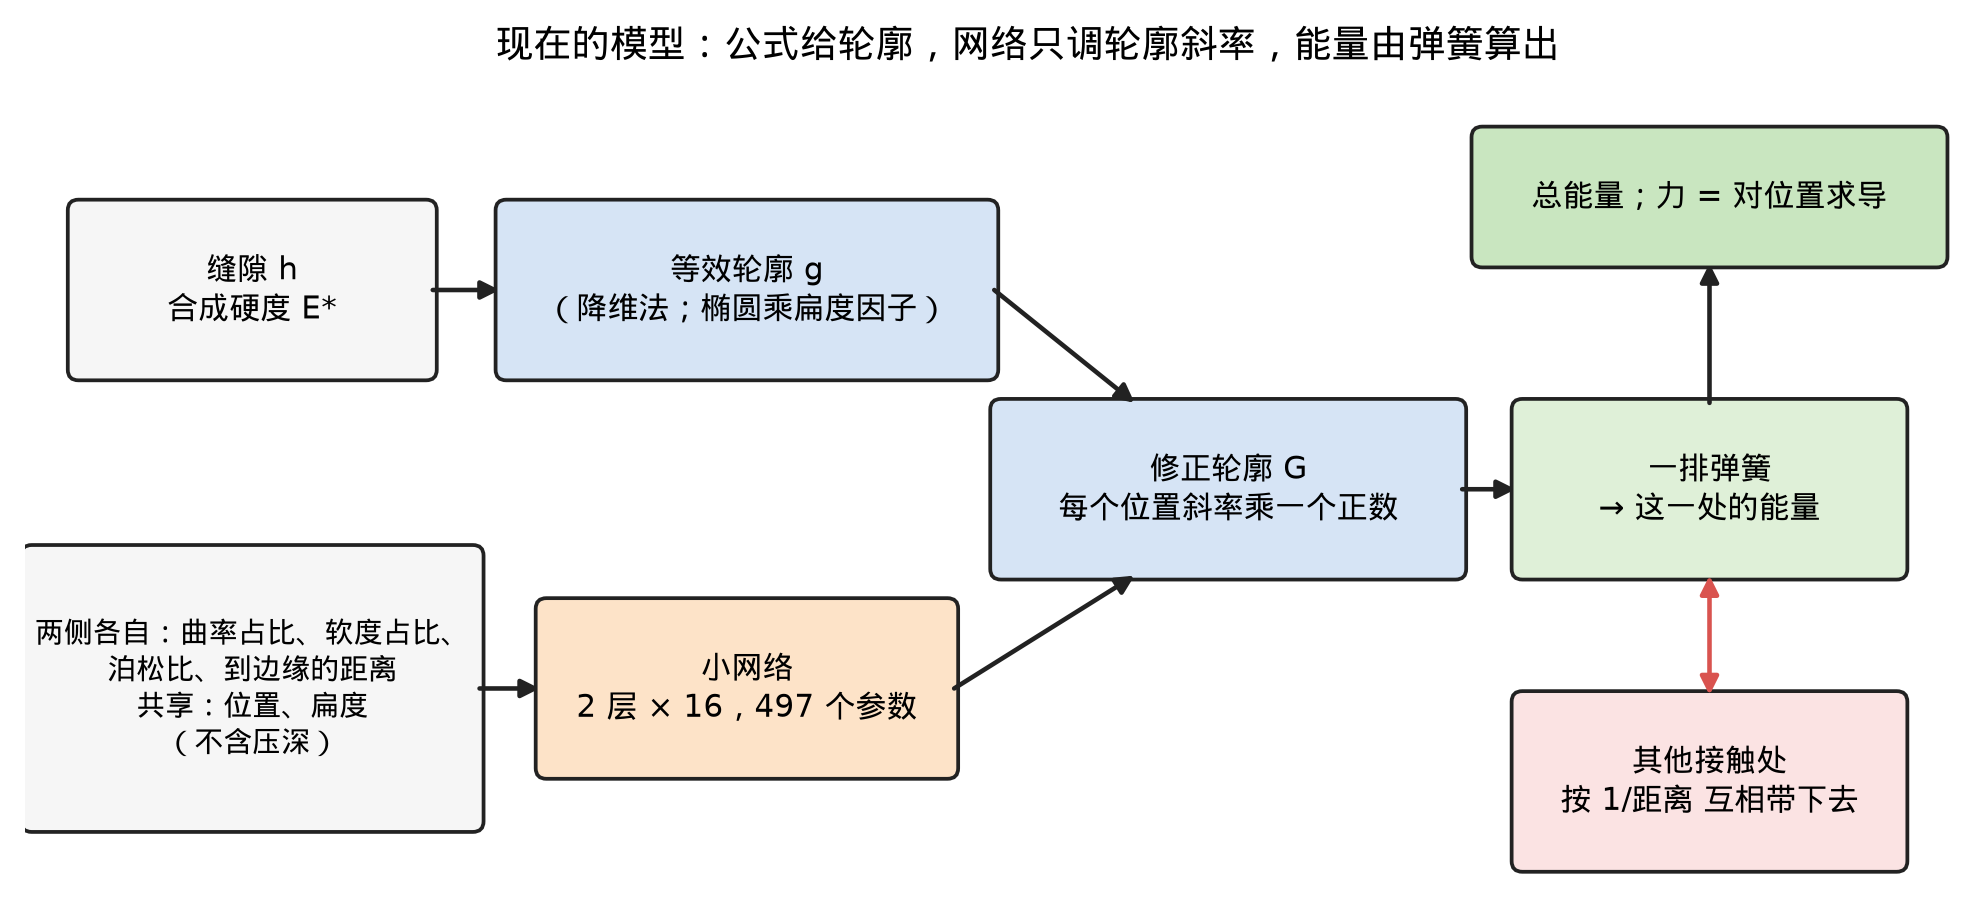
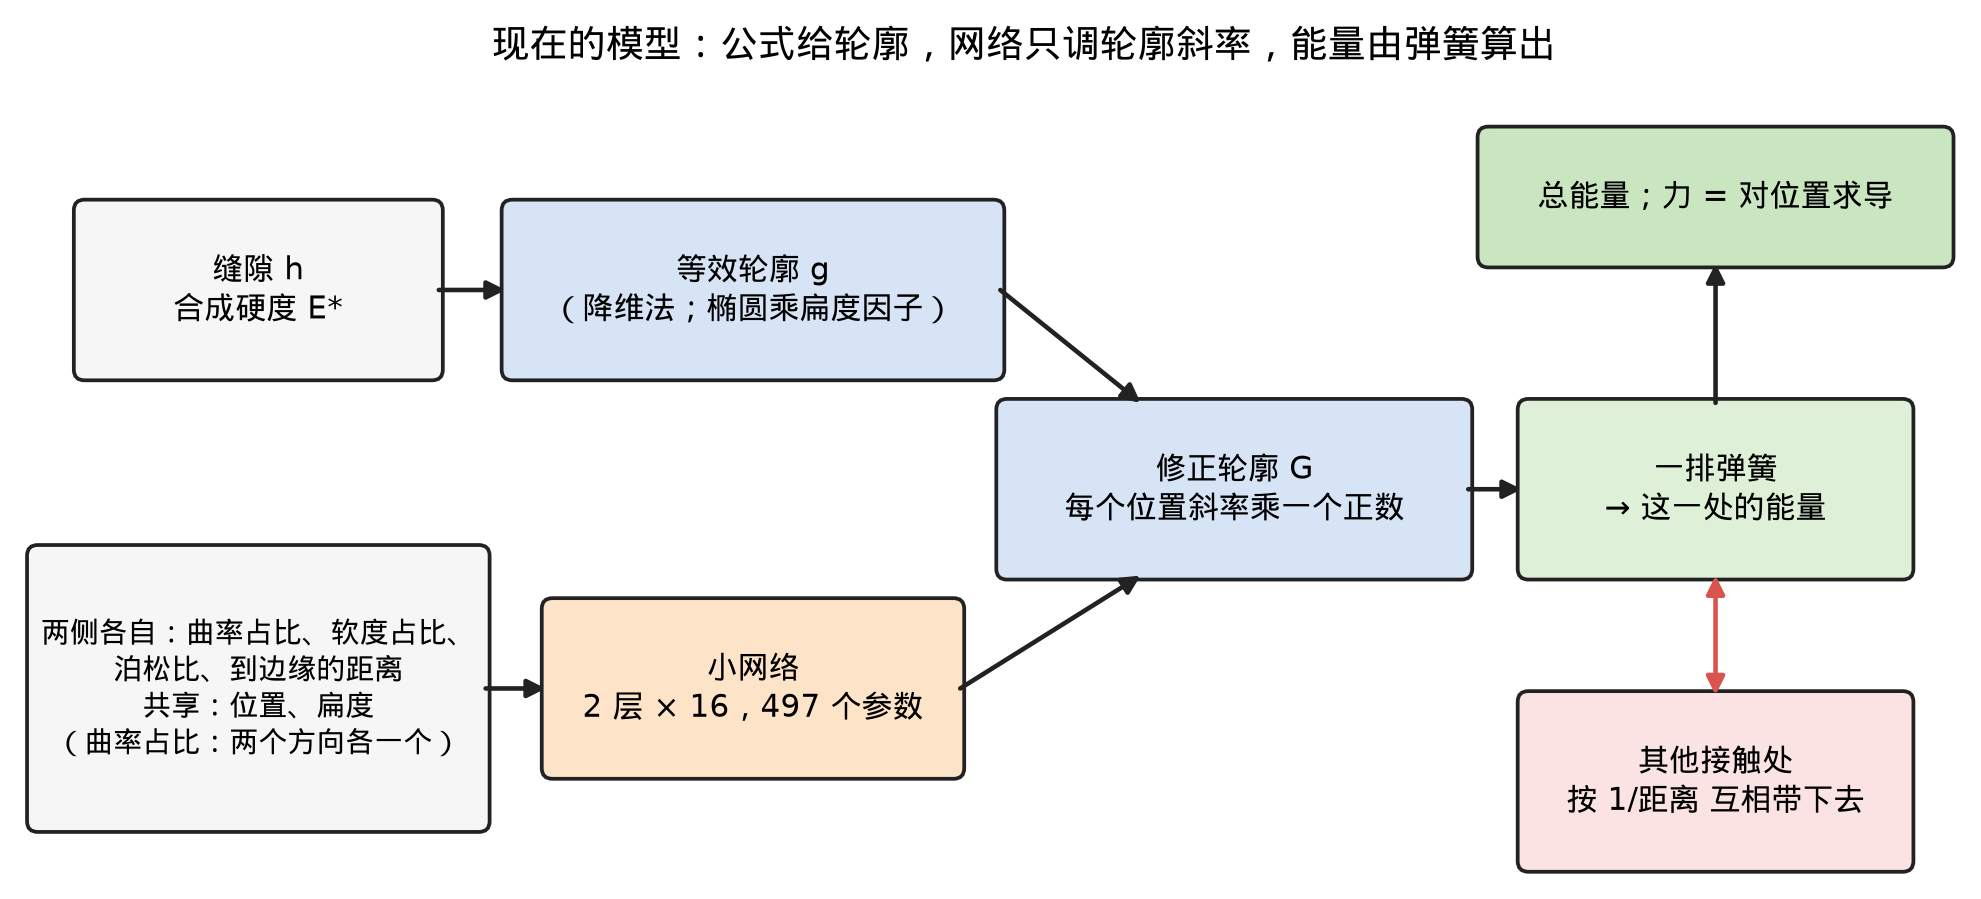
preview/meeting: network-input example (meeting_17/18 + table) after the model diagram; arch caption, input list and design reason state only what the network takes; current annotation layer and the figures now live (meeting_09 V3, redrawn fig02/fig04/meeting_02/meeting_11); built from sandbox 24833

diff --git a/preview/meeting/week3_4.html b/preview/meeting/week3_4.html
@@ -241,7 +241,7 @@ html.annot-on #annot-capture { display: block; }
 }
 </style>
 <script>window.NIPC_SNAPSHOT = {"format":"nipc-notes","version":1,"page":"week3_4.html","path":"/Neural-IPC-web/week3_4.html","colWidth":920,"strokes":[],"tombstones":{}};</script>
-<script>window.NIPC_PAGE = "e5ca66c82fb4";</script>
+<script>window.NIPC_PAGE = "3717cbbdcc77";</script>
 <script>window.MathJax = {tex: {inlineMath: [["\\(", "\\)"]], displayMath: [["\\[", "\\]"]]}, svg: {fontCache: "global"}};</script>
 <script src="https://cdn.jsdelivr.net/npm/mathjax@3.2.2/es5/tex-svg.js" async></script>
 <a class="skip" href="#content">跳转到正文</a><div id="progress" aria-hidden="true"></div>
@@ -500,18 +500,84 @@ html.annot-on #annot-capture { display: block; }
 </table></div>
 <figure style="margin:12px 0"><img src="assets/images/w34_meeting_12_soft_vs_rigid_cap.png" width="2294" height="885" style="width:1089px;max-width:100%;height:auto" alt="两幅都是过接触中心的剖面，红线是受接触力的地方。左边压头（灰）几乎刚、块（浅蓝）软：凹下去的是块，压头底部仍是圆弧。右边压头（浅橙）软、块（深蓝）硬：压头底部被压平，块几乎不动。" loading="lazy"><figcaption class="small">两幅都是过接触中心的剖面，红线是受接触力的地方。左边压头（灰）几乎刚、块（浅蓝）软：凹下去的是块，压头底部仍是圆弧。右边压头（浅橙）软、块（深蓝）硬：压头底部被压平，块几乎不动。</figcaption></figure>
 <p>压头一软，被压扁的变成本来就弯的那一侧，公式的「变形小」前提就不太成立，偏了 1%–2%。而合成硬度相同时，软的是弯的一侧还是平的一侧，结果不一样，所以网络要分别知道两侧各自的软硬和弯曲。</p>
-<figure style="margin:12px 0"><img src="assets/images/w34_meeting_09_arch_v1.png" width="1975" height="899" style="width:923px;max-width:100%;height:auto" alt="现在的模型怎么算能量。左上，缝隙 \(h\) 和合成硬度 \(E^*\) 经降维法给出等效轮廓 \(g\)，椭圆时乘扁度因子。左下，两侧各自的曲率占比、软度占比、泊松比、到边缘的距离，加上位置和扁度，送进小网络，不含压深。网络给轮廓每个位置的斜率乘一个正数，得到修正轮廓 \(G\)，压一排弹簧得到这一处的能量。右下的红色双箭头表示几处接触之间按 1/距离 互相把表面带下去；几处加起来是总能量，力是总能量对位置的导数。" loading="lazy"><figcaption class="small">现在的模型怎么算能量。左上，缝隙 \(h\) 和合成硬度 \(E^*\) 经降维法给出等效轮廓 \(g\)，椭圆时乘扁度因子。左下，两侧各自的曲率占比、软度占比、泊松比、到边缘的距离，加上位置和扁度，送进小网络，不含压深。网络给轮廓每个位置的斜率乘一个正数，得到修正轮廓 \(G\)，压一排弹簧得到这一处的能量。右下的红色双箭头表示几处接触之间按 1/距离 互相把表面带下去；几处加起来是总能量，力是总能量对位置的导数。</figcaption></figure>
+<figure style="margin:12px 0"><img src="assets/images/w34_meeting_09_arch_v1.png" width="1981" height="899" style="width:925px;max-width:100%;height:auto" alt="现在的模型怎么算能量。左上，缝隙 \(h\) 和合成硬度 \(E^*\) 经降维法给出等效轮廓 \(g\)，椭圆时乘扁度因子。左下，两侧各自的曲率占比、软度占比、泊松比、到边缘的距离，加上位置和扁度，送进小网络。网络给轮廓每个位置的斜率乘一个正数，得到修正轮廓 \(G\)，压一排弹簧得到这一处的能量。右下的红色双箭头表示几处接触之间按 1/距离 互相把表面带下去；几处加起来是总能量，力是总能量对位置的导数。" loading="lazy"><figcaption class="small">现在的模型怎么算能量。左上，缝隙 \(h\) 和合成硬度 \(E^*\) 经降维法给出等效轮廓 \(g\)，椭圆时乘扁度因子。左下，两侧各自的曲率占比、软度占比、泊松比、到边缘的距离，加上位置和扁度，送进小网络。网络给轮廓每个位置的斜率乘一个正数，得到修正轮廓 \(G\)，压一排弹簧得到这一处的能量。右下的红色双箭头表示几处接触之间按 1/距离 互相把表面带下去；几处加起来是总能量，力是总能量对位置的导数。</figcaption></figure>
+<p><strong>举个例子：软压头压硬一些的块。</strong> 下面是训练数据里真实的一行，看网络每个输入具体取什么值。</p>
+<figure style="margin:12px 0"><img src="assets/images/w34_meeting_17_input_example.png" width="1898" height="881" style="width:905px;max-width:100%;height:auto" alt="左边是过接触中心的剖面，按真实比例画。上面浅橙色是软压头，底面是半径 \(R=1\) 的球面：红箭头从球心指到球面，灰色虚线是这个球面的延长；球面只到离中轴 \(l=0.6\) 的地方，再往外压头底面是平的。下面浅蓝色是硬一些的块，看成无限大。两侧各自标了杨氏模量 \(E\)、泊松比 \(\nu\) 和软度占比 \(\sigma\)，红色短线是接触区。右边把接触区横向放大（竖直方向是示意）：位置 \(t\) 从中心 0 量到接触边缘 \(a=0.111\)，网络在这条线上的每个位置各算一次，图上标出下表用到的 \(t=0\)、\(a/2\)、\(a\) 三处。" loading="lazy"><figcaption class="small">左边是过接触中心的剖面，按真实比例画。上面浅橙色是软压头，底面是半径 \(R=1\) 的球面：红箭头从球心指到球面，灰色虚线是这个球面的延长；球面只到离中轴 \(l=0.6\) 的地方，再往外压头底面是平的。下面浅蓝色是硬一些的块，看成无限大。两侧各自标了杨氏模量 \(E\)、泊松比 \(\nu\) 和软度占比 \(\sigma\)，红色短线是接触区。右边把接触区横向放大（竖直方向是示意）：位置 \(t\) 从中心 0 量到接触边缘 \(a=0.111\)，网络在这条线上的每个位置各算一次，图上标出下表用到的 \(t=0\)、\(a/2\)、\(a\) 三处。</figcaption></figure>
+<ul>
+<li>压头底面是半径 \(R=1\) 的球冠，球面到离中轴 \(l=0.6\) 处为止；块的上表面是平的，块看成无限大。</li>
+<li>压头 \(E=10^5\)，块 \(E=10^6\)，泊松比都是 0.3。压深 0.013，这时接触半径 \(a=0.111\)。</li>
+<li>网络在接触区里每个位置 \(t\) 各算一次；表里列 \(t=0\)、\(a/2\)、\(a\) 三处的取值，两侧的量写成「压头 / 块」。</li>
+</ul>
+<div class="tablewrap"><table>
+<thead>
+<tr>
+<th>输入</th>
+<th>例子里的值</th>
+<th>是什么</th>
+<th>为什么网络需要它</th>
+</tr>
+</thead>
+<tbody>
+<tr>
+<td>位置 \(10t/R\)</td>
+<td>0 → 0.555 → 1.11</td>
+<td>离接触中心多远，用球半径量</td>
+<td>修正随位置变：中心保持公式原样，越往外改得越多</td>
+</tr>
+<tr>
+<td>扁度 \(e\)</td>
+<td>0</td>
+<td>两侧合起来的缝隙，在两个主方向上弯曲程度之比的对数</td>
+<td>接触区越扁，按等面积圆算的误差越大。球压平面两个方向一样，所以是 0；上一节环面内圈那种情况是 \(\ln 3\approx 1.10\)</td>
+</tr>
+<tr>
+<td>方向 1 曲率占比</td>
+<td>1 / 0</td>
+<td>这个方向上合起来的弯曲，有多大比例来自这一侧</td>
+<td>弯的是哪一侧，结果不一样。块是平的，弯曲全在压头上</td>
+</tr>
+<tr>
+<td>方向 2 曲率占比</td>
+<td>1 / 0</td>
+<td>另一个主方向上的同一个量</td>
+<td>两个方向可以各不相同（比如环面）；这里两个方向一样</td>
+</tr>
+<tr>
+<td>软度占比 \(\sigma\)</td>
+<td>0.909 / 0.091</td>
+<td>合起来的软度 \(1/E^*\) 有多大比例来自这一侧</td>
+<td>软的是哪一侧，结果不一样。压头软 10 倍，占了九成多</td>
+</tr>
+<tr>
+<td>泊松比 \(\nu\)</td>
+<td>0.3 / 0.3</td>
+<td>材料被压时往旁边胀出多少</td>
+<td>决定物体被压扁的方式</td>
+</tr>
+<tr>
+<td>到边缘的距离 \(t/l\)</td>
+<td>0 → 0.093 → 0.185 / 0</td>
+<td>当前位置离这一侧球面的边缘有多近</td>
+<td>离边缘越近，「表面一直往外延伸」这个前提越偏。块看成无限大，这一项是 0</td>
+</tr>
+</tbody>
+</table></div>
+<figure style="margin:12px 0"><img src="assets/images/w34_meeting_18_network_neurons.png" width="1404" height="822" style="width:717px;max-width:100%;height:auto" alt="左边一列是 12 个输入，旁边写着这一行在 \(t=a/2\) 处的取值：前两个是两侧共用的位置和扁度，接着是压头一侧的 5 个，最后是块一侧的 5 个。中间两列各 16 个神经元，每个神经元把上一层的全部输出加权求和、再过一次 tanh，灰线表示相邻两层之间全部相连；最右边是唯一的输出 \(\psi\)。底下蓝字是每两层之间的参数个数（权重加偏置），一共 497 个。右上框：把压头和块的两组输入对调再算一遍，两次取平均。右下框：轮廓斜率乘的是 \(e^{\psi(t)-\psi(0)}\)，所以中心处恰好是 1；这一行在 \(a/2\) 处乘数是 1.043。" loading="lazy"><figcaption class="small">左边一列是 12 个输入，旁边写着这一行在 \(t=a/2\) 处的取值：前两个是两侧共用的位置和扁度，接着是压头一侧的 5 个，最后是块一侧的 5 个。中间两列各 16 个神经元，每个神经元把上一层的全部输出加权求和、再过一次 tanh，灰线表示相邻两层之间全部相连；最右边是唯一的输出 \(\psi\)。底下蓝字是每两层之间的参数个数（权重加偏置），一共 497 个。右上框：把压头和块的两组输入对调再算一遍，两次取平均。右下框：轮廓斜率乘的是 \(e^{\psi(t)-\psi(0)}\)，所以中心处恰好是 1；这一行在 \(a/2\) 处乘数是 1.043。</figcaption></figure>
+<ul>
+<li>两组输入对调再算一遍取平均，所以哪一侧叫「压头」、哪一侧叫「块」，结果都一样。</li>
+<li>这一行里斜率乘数从中心的 1，到 \(a/2\) 处 1.043，再到边缘 1.078：外圈调陡了，正是下面说的「压头软时外圈调陡、能量降下来」。</li>
+</ul>
 <p><strong>网络的做法：</strong> 在等效轮廓 \(g\) 的每个位置上，给它的斜率乘一个接近 1 的正数。比如压头软、自己会被压扁，网络就把轮廓外圈调陡一点，接触区变窄，能量随之降下来。</p>
 <figure style="margin:12px 0"><img src="assets/images/w34_meeting_01_profile_correction.png" width="1113" height="965" style="width:484px;max-width:100%;height:auto" alt="降维法那排弹簧上的两种轮廓。黑色虚线是公式给的 \(g=x^2/R\)，接触边缘在灰色的 \(a\)；灰色实心压头是网络把外圈斜率调大后的轮廓，外圈更陡，同样的压深下接触边缘收到红色的 \(a&#x27;\)。蓝色是被压到的弹簧，灰色是没碰到的；轮廓变陡后被压到的弹簧变少、每根压得更浅，能量变小。修正的幅度为了看清放大画了。" loading="lazy"><figcaption class="small">降维法那排弹簧上的两种轮廓。黑色虚线是公式给的 \(g=x^2/R\)，接触边缘在灰色的 \(a\)；灰色实心压头是网络把外圈斜率调大后的轮廓，外圈更陡，同样的压深下接触边缘收到红色的 \(a&#x27;\)。蓝色是被压到的弹簧，灰色是没碰到的；轮廓变陡后被压到的弹簧变少、每根压得更浅，能量变小。修正的幅度为了看清放大画了。</figcaption></figure>
 <ul>
-<li><strong>输入：</strong> 轮廓上的位置；椭圆有多扁；两侧各自的泊松比；弯的是哪一侧（两侧各占合起来的曲率的比例）；软的是哪一侧（两侧各占合起来的软度 \(1/E^*\) 的比例）；两侧各自到物体边缘的距离（物体看成无限大时这一项为零）。不输入压深。</li>
+<li><strong>输入：</strong> 轮廓上的位置；椭圆有多扁；两侧各自的泊松比；弯的是哪一侧（两侧各占合起来的曲率的比例）；软的是哪一侧（两侧各占合起来的软度 \(1/E^*\) 的比例）；两侧各自到物体边缘的距离（物体看成无限大时这一项为零）。</li>
 <li><strong>规模：</strong> 2 层、每层 16 个神经元，共 497 个参数。</li>
 </ul>
 <p><strong>为什么改轮廓，而不是直接给能量乘系数：</strong></p>
 <ul>
 <li>斜率乘的是正数，轮廓仍单调升高，能量仍由那排弹簧算出来，所以第 3.2 节的两条性质（力是能量的导数、越压越硬）原样保留；</li>
 <li>修正系数为 1 时严格退回公式；</li>
-<li>网络只改轮廓的形状，不看压深；压深变化时能量怎么变，仍由弹簧公式决定。所以压得比训练时更深，网络也不需要去猜，不会出怪结果。</li>
+<li>压深变化时能量怎么变，由弹簧公式决定；网络只调轮廓的形状。所以压得比训练时更深，网络也不需要去猜，不会出怪结果。</li>
 </ul>
 <p><strong>接触之间的相互影响（第二条要求）：</strong> 每处接触的压深 = 自己的力压出来的 + 其他接触的力把表面带下去的：</p>
 <p>\[\color{#c0392b}{\delta_i=\delta_{e,i}(F_i)+\sum_{j\ne i}\frac{F_j}{\pi E^*\,r_{ij}},}\]</p>
@@ -605,7 +671,7 @@ html.annot-on #annot-capture { display: block; }
 
 <p>骨架建立在「接触区远小于物体、物体可以看成无限厚」上。下面三种常见情况都违反这一点：</p>
 <p><strong>① 薄层（软垫、涂层、手指皮肤）。</strong> 骨架里没有层厚这个量。刚球压一层很薄的软层时，层下面就是硬底座，材料没处可让，比压一大块软材料硬得多；骨架照样按无限厚算，只算出真实能量的一到两成。</p>
-<figure style="margin:12px 0"><img src="assets/images/w34_meeting_11_thin_layer_section.png" width="1930" height="885" style="width:916px;max-width:100%;height:auto" alt="同一个刚球、同样的压深。左边压的是一大块软材料，接触区下面还有很深的软材料。右边压的是放在硬底座上的一层薄软层，层厚 \(t\)，层下面就是硬底座，材料没处可让，所以比左边硬得多。" loading="lazy"><figcaption class="small">同一个刚球、同样的压深。左边压的是一大块软材料，接触区下面还有很深的软材料。右边压的是放在硬底座上的一层薄软层，层厚 \(t\)，层下面就是硬底座，材料没处可让，所以比左边硬得多。</figcaption></figure>
+<figure style="margin:12px 0"><img src="assets/images/w34_meeting_11_thin_layer_section.png" width="1510" height="885" style="width:717px;max-width:100%;height:auto" alt="同一个刚球、同样的压深。左边压的是一大块软材料，接触区下面还有很深的软材料。右边压的是放在硬底座上的一层薄软层，层厚 \(t\)，层下面就是硬底座，材料没处可让，所以比左边硬得多。" loading="lazy"><figcaption class="small">同一个刚球、同样的压深。左边压的是一大块软材料，接触区下面还有很深的软材料。右边压的是放在硬底座上的一层薄软层，层厚 \(t\)，层下面就是硬底座，材料没处可让，所以比左边硬得多。</figcaption></figure>
 <p><strong>② 斜着压的平底。</strong> 骨架把接触压成左右对称的一维轮廓，只记得「最深处压了多深」，不知道哪一边深。结果有两个：一是少算了压头倾斜本身存下的能量（整片贴住时少约 14%）；二是往左倾、往右倾，骨架都按同样方式改变能量，能量在「不倾斜」处出现一个尖角，对倾角求导就冒出一个本不存在的转动力矩。</p>
 <figure style="margin:12px 0"><img src="assets/images/w34_meeting_03_tilt.png" width="1865" height="897" style="width:873px;max-width:100%;height:auto" alt="左边是斜着压的平底剖面，倾角放大画：右边压得深，左边压得浅，灰色虚线是原来的表面。右边固定平底中心的压深、只改倾角，纵轴是能量 ÷ 不倾斜时的能量。绿线是精确解，在 0° 处是光滑的抛物线，不倾斜时没有转动力矩；红色虚线是现在的骨架，往左倾、往右倾变化一样，在 0° 处是一个尖角，左右两边的斜率不相等，这就是那个本不存在的力矩。整片贴住的 3° 那一档，骨架实测比精确解少约 15%。" loading="lazy"><figcaption class="small">左边是斜着压的平底剖面，倾角放大画：右边压得深，左边压得浅，灰色虚线是原来的表面。右边固定平底中心的压深、只改倾角，纵轴是能量 ÷ 不倾斜时的能量。绿线是精确解，在 0° 处是光滑的抛物线，不倾斜时没有转动力矩；红色虚线是现在的骨架，往左倾、往右倾变化一样，在 0° 处是一个尖角，左右两边的斜率不相等，这就是那个本不存在的力矩。整片贴住的 3° 那一档，骨架实测比精确解少约 15%。</figcaption></figure>
 <p><strong>③ 两处接触连成一片。</strong> 分开时按「两处 + 相互影响」算，连成一片后只能按「一处」算。两种算法在连上的那一刻给出的能量不一样，差 4%–7%，能量就在这里跳一下，牛顿法可能因此不收敛。</p>
@@ -616,7 +682,7 @@ html.annot-on #annot-capture { display: block; }
 <li><strong>很厚：</strong> Hertz 精确。</li>
 <li><strong>很薄：</strong> 层太薄，压力传不开，每一小柱材料只能被竖直压扁，表面每一点就是一根独立的弹簧（刚度 \(k\) 与层厚成反比）。这正是 hydro 的行为。能量有精确公式 \(U=\pi kR\,\delta^3/3\)，按压深的 3 次方涨，和 Hertz 的 2.5 次方完全不同。</li>
 </ul>
-<figure style="margin:12px 0"><img src="assets/images/w34_meeting_02_thin_vs_thick.png" width="1930" height="885" style="width:916px;max-width:100%;height:auto" alt="同一个刚球压到同样深。左边是厚块，接触区外的表面也跟着陷下去，灰色虚线是原来的表面。右边是放在刚性底座上的薄层，层厚 \(t\)：每一小柱材料只被竖直压扁，旁边的表面不动，就像接触区下面一排互不相干的竖直弹簧（蓝色）。" loading="lazy"><figcaption class="small">同一个刚球压到同样深。左边是厚块，接触区外的表面也跟着陷下去，灰色虚线是原来的表面。右边是放在刚性底座上的薄层，层厚 \(t\)：每一小柱材料只被竖直压扁，旁边的表面不动，就像接触区下面一排互不相干的竖直弹簧（蓝色）。</figcaption></figure>
+<figure style="margin:12px 0"><img src="assets/images/w34_meeting_02_thin_vs_thick.png" width="1519" height="885" style="width:721px;max-width:100%;height:auto" alt="同一个刚球压到同样深。左边是厚块，接触区外的表面也跟着陷下去，灰色虚线是原来的表面。右边是放在刚性底座上的薄层，层厚 \(t\)：每一小柱材料只被竖直压扁，旁边的表面不动，就像接触区下面一排互不相干的竖直弹簧（蓝色）。" loading="lazy"><figcaption class="small">同一个刚球压到同样深。左边是厚块，接触区外的表面也跟着陷下去，灰色虚线是原来的表面。右边是放在刚性底座上的薄层，层厚 \(t\)：每一小柱材料只被竖直压扁，旁边的表面不动，就像接触区下面一排互不相干的竖直弹簧（蓝色）。</figcaption></figure>
 <details><summary>推导：薄层能量</summary><p>离中心 \(r\) 处的压缩量</p>
 <p>\[w(r)=\delta-\frac{r^2}{2R},\]</p>
 <p>压强 \(p=k\,w\)，接触边缘是 \(w=0\) 处：</p>
@@ -1953,7 +2019,16 @@ html.annot-on #annot-capture { display: block; }
     if (r.status === 404) return { data: null, sha: null };
     if (!r.ok) throw new Error('读取 ' + r.status);
     const j = await r.json();
-    return { data: JSON.parse(b64DecodeUtf8(j.content)), sha: j.sha };
+    let b64 = j.content;
+    if (!b64 && j.sha) {   // 文件超过 1 MB 时 contents API 不给 content，改按 sha 取 blob（上限 100 MB）
+      const rb = await fetch(`https://api.github.com/repos/${cfg.repo}/git/blobs/${j.sha}`, {
+        cache: 'no-store',
+        headers: { Authorization: 'Bearer ' + cfg.token, Accept: 'application/vnd.github+json', 'X-GitHub-Api-Version': '2022-11-28' },
+      });
+      if (!rb.ok) throw new Error('读取 blob ' + rb.status);
+      b64 = (await rb.json()).content;
+    }
+    return { data: JSON.parse(b64DecodeUtf8(b64)), sha: j.sha };
   }
   /** 写远端文件；sha 过期（409 / 422）返回 {conflict: true}。 */
   async function ghPut(cfg, data, sha, keepalive) {
